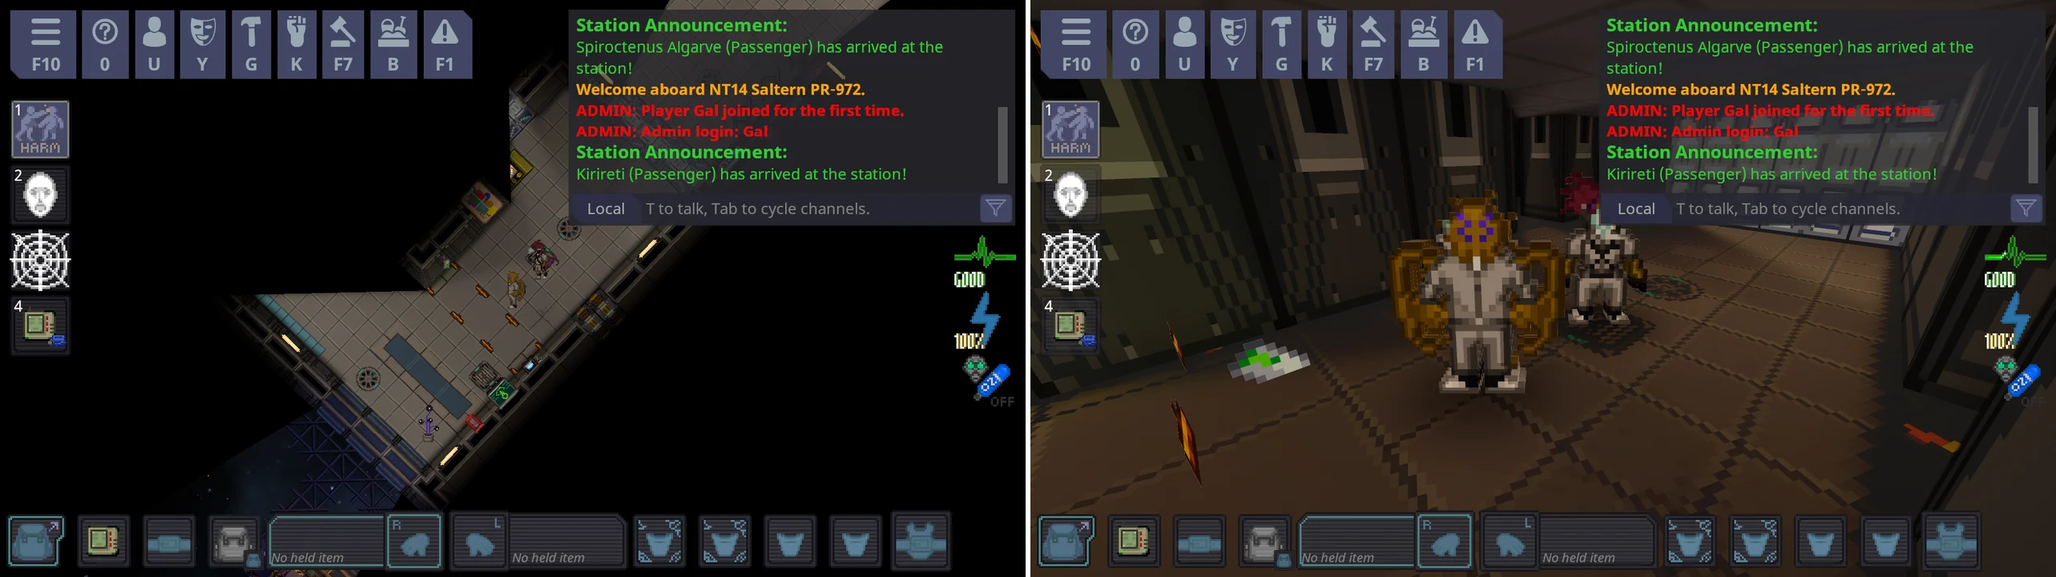
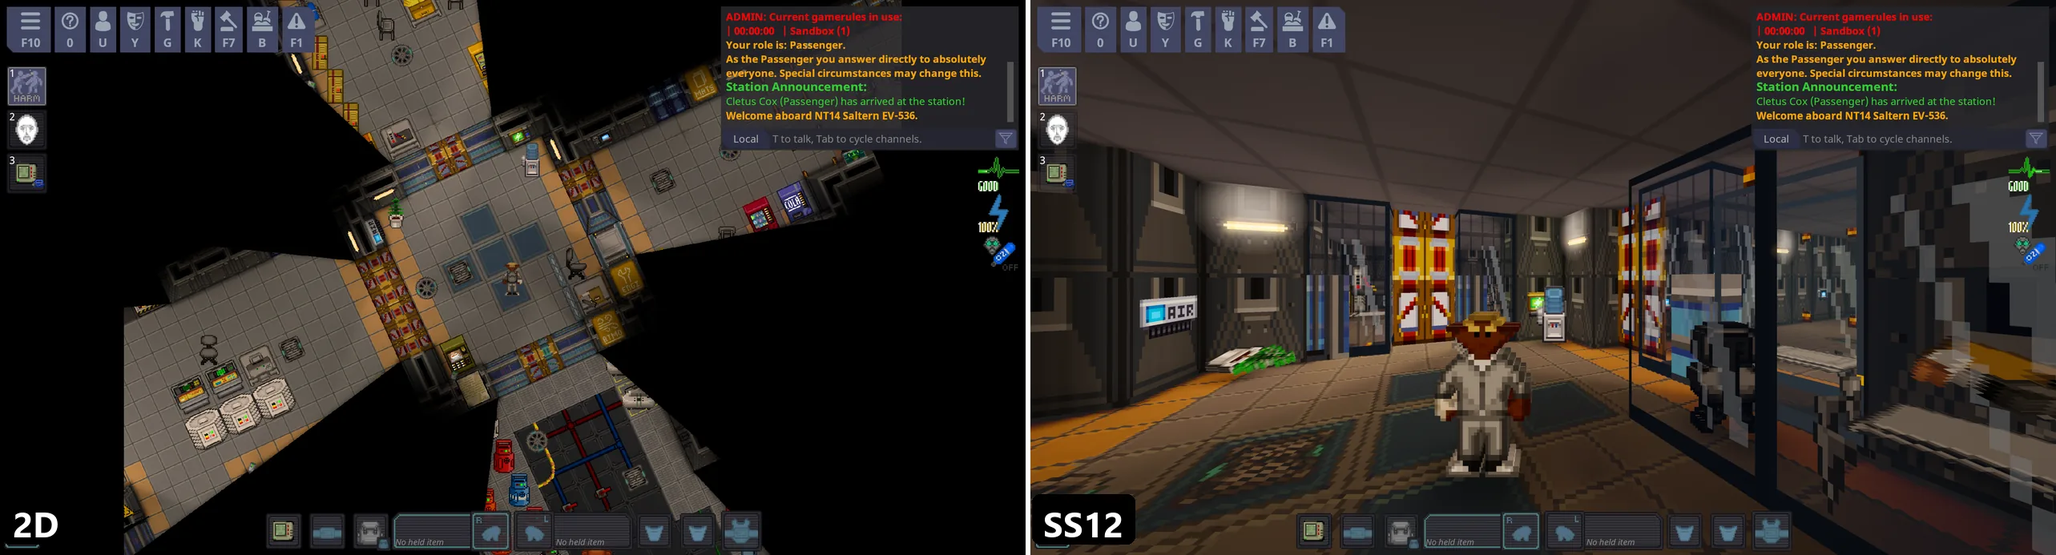
Release 1.3.0: version, changelog, new screenshots, README and docs refresh
Version
  installer/version.txt is 1.3.0 and both changelogs name the section 1.3.0 instead of Unreleased.

README (English and Russian)
  - A new before and after picture at the top: the flat game and SS12 in the same room (Engineering), both on the highest
    graphics in a 2400 x 1300 window.
  - New screenshots, all on High and all in well-lit rooms: Botany, glass walls in Chemistry, first person, Engineering and the
    large minimap, plus a Low and High pair at the same spot.
  - The feature list mentions real glass, the minimap and the high-start graphics. The controls tables list the minimap keys.
  - The 200 to 300 fps figure is marked as measured on an earlier version.

Other docs
  - FAQ: why the game lowered the graphics by itself, how to turn the minimap off or make it bigger.
  - Troubleshooting: rounds start on High, a preset the player chose is never changed, where to untick the automatic step-down.
  - Play the demo: the minimap keys.
  - AGENTS.md: windows and grilles are drawn as glass, not from their sprite (what to know before changing it), and the default
    wall height is 2.3 tiles.

Line endings of overlay/docs/ss12/README.md and README.ru.md are kept as CRLF like the originals.

diff --git a/docs/ru/README.md b/docs/ru/README.md
@@ -13,8 +13,8 @@
 > движке Space Station 14. Технически это игра SS14, увиденная в 3D: правила, роли и баланс такие, какие уже есть
 > на вашем сервере.
 
-![Один и тот же коридор станции: до и после](../screenshots/before_after.webp)
-*Слева: обычный 2D-вид сверху. Справа: SS12, тот же момент в том же коридоре. Та же игра, та же станция.*
+![Одна и та же комната: до и после](../screenshots/before_after.webp)
+*Слева: обычный 2D-вид сверху. Справа: SS12, тот же момент в той же комнате. Та же игра, та же станция.*
 
 **SS12 превращает Space Station 14 в 3D-игру с видом от первого или третьего лица.** Вы ходите по станции
 и осматриваетесь мышью, а всё остальное работает так, как вы уже привыкли: те же профессии, те же правила,
@@ -48,11 +48,17 @@
   разговаривайте. Целиться нужно крестиком в центре экрана.
 - **Выглядит красиво, и красоту можно убавить.** Мягкое освещение, светящиеся лампы, тени под людьми и
   предметами, звёздное небо за бортом. Каждый эффект можно отключить по отдельности, например для старых компьютеров. Нажмите `F11`.
+- **Окна — настоящее стекло.** За окном видно комнату, коридор или космос: через тонированное стекло
+  со стальной рамой и бликом, а также через решётки. У каждого вида окон (обычное, укреплённое, плазменное, шаттловое...)
+  свой вид.
 - **У вещей есть объём.** Предметы на полу приподняты, наклонены к вам и нарисованы с толщиной, поэтому ломик не
   похож на наклейку или пятно; людям и автоматам тоже добавлена тонкая плитка глубины. Каждый из этих эффектов можно
   отключить отдельно.
-- **Оно бережёт слабые компьютеры.** Если игра начинает тормозить, она сама снижает красивые настройки и
-  сообщает вам об этом.
+- **Миникарта, чтобы не заблудиться.** Небольшая карта станции в углу, со стрелкой, куда вы смотрите. Других игроков на
+  ней нет. `M` включает и выключает её, `-` делает её больше.
+- **Игра стартует на лучшей графике и бережёт слабые компьютеры.** Каждый раунд начинается на самой высокой графике и измеряет
+  частоту кадров. Если игра тормозит, она сама снижает красивые настройки и сообщает вам об этом. Ваш собственный выбор в `F11`
+  она никогда не меняет.
 
 ## Чем оно не является
 
@@ -64,14 +70,23 @@
 
 ## Скриншоты
 
+Все они сделаны на **самой высокой** графике, в окне игры примерно 2400 x 1300 пикселей.
+
 | | |
 |---|---|
-| ![Коридор](../screenshots/hero_high.webp) | ![Персонажи с тенями](../screenshots/visual_entity_fx_off_on.webp) |
-| Коридор станции | Тени и контуры у людей: выключено (слева) и включено (справа) |
-| ![Лампы](../screenshots/visual_lamp_halo.webp) | ![Наручники](../screenshots/flash_cuff_pull_3d.webp) |
-| Светящиеся лампы | Работа службы безопасности: вспышка, наручники, буксировка |
-| ![Предметы](../screenshots/visual_items_shape_off_on.webp) | |
-| Предметы на полу: эффекты формы выключены (слева) и включены (справа) | |
+| ![Комната станции](../screenshots/hero_high.webp) | ![Стеклянные стены](../screenshots/glass_windows.webp) |
+| Ботаника: лампы, потолок, предметы и грядки с толщиной | Стеклянные стены в химлаборатории: за ними видны аппараты и комнаты |
+| ![Вид от первого лица](../screenshots/first_person.webp) | ![Инженерный отдел](../screenshots/engineering_3d.webp) |
+| Вид от первого лица (`N`): вы смотрите глазами персонажа | Инженерный отдел: шкафчики, вывески и лампы |
+| ![Большая миникарта](../screenshots/minimap_large.webp) | |
+| Большая миникарта (`-`): вся станция, с названиями зон | |
+
+### Low и High
+
+Пресеты графики в `F11` (**Low**, **Medium**, **High**) включают и выключают эффекты. То же место, тот же момент:
+
+![Одна и та же комната на Low (слева) и High (справа)](../screenshots/low_vs_high.webp)
+*Слева: Low, плоско и просто, для слабых компьютеров. Справа: High, с плиточным потолком, светящимися лампами, тенями и толщиной.*
 
 Больше картинок — в [папке со скриншотами](../screenshots/).
 
@@ -87,6 +102,8 @@
 | Освободить мышь (чтобы щёлкать по меню), удерживайте | `Alt` |
 | Открыть настройки 3D (внешний вид, скорость, клавиши) | `F11` |
 | Переключиться между 3D и старым плоским видом, если сервер разрешает | `F12` |
+| Включить и выключить миникарту | `M` |
+| Миникарта: малая или большая | `-` |
 | Всё остальное (использовать, бросать, говорить, боевой режим...) | те же клавиши, что и в обычной SS14 |
 
 Маленький крестик в центре экрана показывает, куда вы целитесь. Он становится **зелёным**, когда то, на что вы
@@ -122,15 +139,15 @@ lol.ss12.org
 
 Почти наверняка. Нужна видеокарта с поддержкой OpenGL 3.3, а это почти любой компьютер, выпущенный примерно с
 2012 года. На среднем видеоускорителе 2017 года (Radeon RX 580) автор измерил примерно **от 200 до 300 кадров в секунду** в разрешении 1080p со всеми
-эффектами (обычно экраны показывают 60, так что запас большой).
+эффектами (на более ранней версии; обычно экраны показывают 60, так что запас большой).
 
 Если ваш компьютер тормозит:
 1. Нажмите `F11`.
 2. Поставьте **Пресет качества** (Quality preset) на **Low**.
 3. Если всё равно тормозит, немного уменьшите **Масштаб рендера** (Render scale).
 
-Можно и не делать этого: при автоматической настройке (она включена по умолчанию) игра сама снижает качество
-после нескольких секунд медленной работы.
+Можно и не делать этого: каждый раунд начинается на High, а при автоматической настройке (она включена по умолчанию) игра
+сама снижает качество после нескольких секунд медленной работы и сообщает вам об этом.
 
 ---
 

diff --git a/README.md b/README.md
@@ -14,8 +14,8 @@
 > Space Station 14 game and engine. Under the hood it is the SS14 game seen in 3D: the rules, roles and balance are whatever
 > your server already has.
 
-![The same station corridor, before and after](docs/screenshots/before_after.webp)
-*Left: the normal top-down 2D view. Right: SS12, the same moment in the same corridor. Same game, same station.*
+![The same room, before and after](docs/screenshots/before_after.webp)
+*Left: the normal top-down 2D view. Right: SS12, the same moment in the same room. Same game, same station.*
 
 **SS12 turns Space Station 14 into a first-person or third-person 3D game.** You walk around the station
 and look around with the mouse, and everything else works the way you already know: the same jobs, the same rules,
@@ -49,11 +49,17 @@ It is a fan-made add-on. It is **not** made by, or connected to, the Space Stati
   talk. Aim with the cross in the middle of the screen.
 - **It looks good, and you can turn the looks down.** Soft lighting, glowing lamps, shadows under people and
   things, a starry sky outside. Every extra can be switched off one by one, for older computers. Press `F11`.
+- **Windows are real glass.** You see the room, the corridor or the space behind a window, through a tinted pane
+  with a steel frame and a highlight, and through grilles. Each kind of window (plain, reinforced, plasma, shuttle...) has
+  its own look.
 - **Things have a body.** Items on the floor are lifted, tilted towards you and drawn with thickness, so a crowbar
   does not look like a sticker or a stain; people and machines get a thin slab of depth too. Each of these can be
   switched off on its own.
-- **It protects slow computers.** If the game starts running badly, it lowers the fancy settings by itself and
-  tells you.
+- **A minimap to find your way.** A small map of the station in the corner, with an arrow for where you look. It shows no
+  other players. `M` switches it on and off, `-` makes it larger.
+- **It starts on the best looks and protects slow computers.** Every round starts on the highest graphics and measures the
+  frame rate. If the game runs badly, it lowers the fancy settings by itself and tells you. Your own choices in `F11` are
+  never overridden.
 
 ## What it is not
 
@@ -65,14 +71,23 @@ It is a fan-made add-on. It is **not** made by, or connected to, the Space Stati
 
 ## Screenshots
 
+All of these were taken on the **highest** graphics setting, in a game window of about 2400 x 1300 pixels.
+
 | | |
 |---|---|
-| ![A corridor](docs/screenshots/hero_high.webp) | ![Characters with shadows](docs/screenshots/visual_entity_fx_off_on.webp) |
-| A station corridor | Shadows and outlines on people, off (left) and on (right) |
-| ![Lamps](docs/screenshots/visual_lamp_halo.webp) | ![Cuffing](docs/screenshots/flash_cuff_pull_3d.webp) |
-| Lamps that glow | Security work: flash, cuff, pull |
-| ![Items](docs/screenshots/visual_items_shape_off_on.webp) | |
-| Items on the floor with the shape effects off (left) and on (right) | |
+| ![A station room](docs/screenshots/hero_high.webp) | ![Glass walls](docs/screenshots/glass_windows.webp) |
+| Botany: lamps, a ceiling, items and beds with thickness | Glass walls in Chemistry: the machines and rooms behind them are visible |
+| ![First person](docs/screenshots/first_person.webp) | ![Engineering](docs/screenshots/engineering_3d.webp) |
+| First person (`N`): you look through the character's eyes | Engineering: lockers, signs and lamps |
+| ![Large minimap](docs/screenshots/minimap_large.webp) | |
+| The large minimap (`-`): the whole station, with the names of the areas | |
+
+### Low and High
+
+The graphics presets in `F11` (**Low**, **Medium**, **High**) switch the extras on and off. Same place, same moment:
+
+![The same room on Low (left) and High (right)](docs/screenshots/low_vs_high.webp)
+*Left: Low, flat and plain, for slow computers. Right: High, with the tiled ceiling, glowing lamps, shadows and thickness.*
 
 More pictures are in the [screenshots folder](docs/screenshots/).
 
@@ -88,6 +103,8 @@ More pictures are in the [screenshots folder](docs/screenshots/).
 | Free the mouse (to click menus), hold | `Alt` |
 | Open the 3D settings (looks, speed, keys) | `F11` |
 | Switch between 3D and the old flat view, if the server allows it | `F12` |
+| Minimap on and off | `M` |
+| Minimap small or large | `-` |
 | Everything else (use, throw, talk, combat mode...) | the same keys as in normal SS14 |
 
 The little cross in the middle of the screen is where you point. It turns **green** when what you are pointing at is
@@ -123,15 +140,15 @@ with the `F12` key.
 
 Almost certainly. It needs a graphics card that can run OpenGL 3.3, which is nearly every computer made since
 about 2012. On a 2017 mid-range card (Radeon RX 580) the author measured roughly **200 to 300 frames per second** at 1080p with every extra
-on (screens normally show 60, so that leaves a lot of room).
+on (an earlier version; screens normally show 60, so that leaves a lot of room).
 
 If your computer is slow:
 1. Press `F11`.
 2. Set **Quality preset** to **Low**.
 3. If it is still slow, move **Render scale** down a little.
 
-You do not even have to do that: with the automatic setting (on by default) the game lowers the quality itself
-after a few seconds of slow running.
+You do not even have to do that: every round starts on High, and with the automatic setting (on by default) the game
+lowers the quality itself after a few seconds of slow running, and tells you when it does.
 
 ---
 

diff --git a/docs/ru/FAQ.md b/docs/ru/FAQ.md
@@ -29,6 +29,15 @@
 Почти наверняка. Нужна видеокарта с OpenGL 3.3 (это почти всё, что выпущено с 2012 года). На старых компьютерах можно
 по одному отключить красивые эффекты (`F11`), а игра сделает это сама, если заметит, что тормозит.
 
+### Почему игра сама снизила мне графику?
+Каждый раунд начинается на самой высокой графике, и несколько секунд игра измеряет частоту кадров. Если она слишком низкая,
+игра переходит на более лёгкий пресет и сообщает вам об этом. Следующий раунд снова начнётся на High и снова измерит. Пресет
+или эффект, который вы выбрали сами в `F11`, игра никогда не меняет, а автоматическое снижение там же можно отключить.
+
+### Можно ли выключить миникарту или сделать её больше?
+Да: `M` включает и выключает её, `-` делает её малой или большой. В `F11` для неё тоже есть переключатель и ползунок размера.
+Других игроков она никогда не показывает.
+
 ### Есть ли сервер, где можно просто попробовать?
 Да: тестовый сервер `lol.ss12.org`. Откройте обычный лаунчер, выберите Direct Connect и введите адрес. Подробнее на
 [ss12.org](https://ss12.org). Это тестовый сервер, поэтому он может перезапускаться или иногда быть недоступен.

diff --git a/AGENTS.md b/AGENTS.md
@@ -66,8 +66,13 @@ Things to know before touching `overlay/`:
   plane are biased by the sprite's draw depth (`SortBiasPerDepth` in `EntityPass`). `QuadBuilderOrderTest` covers this.
 - A window tile is a see-through glass box. Only the faces turned towards the camera are drawn; the far faces would be
   seen through the near ones and double every window and grille pattern. Do not "complete" the box.
+- Windows, window doors and grilles are not drawn from their sprite (a top-down picture of a frame around a small pane, about
+  62% solid frame when stood up). `GlassLook` lays out a pane, a frame, a grille mesh and highlight streaks for each glass
+  type in `rules.yml` (`glass:`), and `BillboardAtlas.DrawGlass` draws that into the atlas slot with the `Render3DGlassPane`
+  shader (straight alpha, no blending). Damage and other overlay layers are still drawn from the sprite. Rules match a prototype
+  or any of its parents; one under no listed parent keeps its drawn sprite.
 - A sprite's bounds are its whole rectangle, not its opaque pixels. A 1x1 sprite can hold a small drawing.
-- Indoors the camera cannot rise above the ceiling (wall height 1.6 tiles), so things close to it look huge. Test
+- Indoors the camera cannot rise above the ceiling (wall height 2.3 tiles by default), so things close to it look huge. Test
   visual changes with the default third-person distance, not a far-away camera.
 - Items are tilted at most 20 degrees. A first version used 60 and cards rose like ramps into the view.
 

diff --git a/docs/ru/TROUBLESHOOTING.md b/docs/ru/TROUBLESHOOTING.md
@@ -14,8 +14,9 @@
 2. Поставьте **Quality preset** (пресет качества) на **Low** (низкое).
 3. Всё ещё медленно? Немного уменьшите **Render scale** (масштаб рендера), например до 0.75.
 
-Игра также делает это сама, если несколько секунд работает медленно, и показывает сообщение об этом. Если вам это не
-нужно, отключить можно в том же окне.
+Игра также делает это сама: каждый раунд начинается на High, а если несколько секунд работает медленно, она снижает
+качество и показывает сообщение. Пресет, который вы выбрали сами, игра никогда не меняет. Если автоматическое снижение вам
+не нужно, снимите галочку **Lower quality automatically if slow** в том же окне.
 
 ### Мышь не поворачивает камеру
 - Один раз щёлкните внутри окна игры, чтобы оно поняло, что вы с ним работаете.

diff --git a/docs/FAQ.md b/docs/FAQ.md
@@ -26,6 +26,15 @@ Yes, on servers that allow it: press `F12`. Servers can make 3D mandatory for li
 Nearly certainly. It needs a graphics card with OpenGL 3.3 (almost everything since about 2012). Older computers can turn
 off the fancy parts one by one (`F11`), and the game does it for you if it notices it is slow.
 
+### Why did the game lower my graphics by itself?
+Every round starts on the highest graphics and measures the frame rate for a few seconds. If it is too low, the game
+steps down to a lighter preset and tells you. The next round starts on High again and measures again. A preset or effect
+you chose yourself in `F11` is never changed by the game, and the automatic step-down can be switched off there.
+
+### Can I turn the minimap off, or make it bigger?
+Yes: `M` switches it on and off and `-` makes it small or large. `F11` has a switch and a size slider for it too. It never
+shows other players.
+
 ### Is there a server I can just try?
 Yes: a test server at `lol.ss12.org`. Open the normal launcher, choose Direct Connect and type the address. More on
 [ss12.org](https://ss12.org). It is a test server, so it may restart or be down at times.

diff --git a/docs/ru/CHANGELOG.md b/docs/ru/CHANGELOG.md
@@ -1,7 +1,8 @@
 # Список изменений
 *[English version](../CHANGELOG.md)*
 
-## Не выпущено
+## 1.3.0
+Прозрачные окна, миникарта, графика, которая стартует на высоком уровне и сама снижается, и много исправлений в отрисовке.
 - **Объекты рядом с камерой больше не оставляют размазанную полосу на экране.** Шейдер плавно скрывает то, что очень близко к камере,
   по глубине каждого пикселя. Слои толщины объекта лежат позади его лицевой стороны, то есть дальше от камеры, и гаснут слабее:
   когда вы стояли рядом с торговым автоматом или утилизатором, его лицевая сторона становилась прозрачной, а слои показывались

diff --git a/docs/TROUBLESHOOTING.md b/docs/TROUBLESHOOTING.md
@@ -14,8 +14,9 @@ Find your problem below. Every answer is in plain words. If yours is not here, s
 2. Set **Quality preset** to **Low**.
 3. Still slow? Move **Render scale** down a bit (for example to 0.75).
 
-The game also does this by itself after a few seconds of slow running, and shows a message when it does. You can turn
-that off in the same window if you do not want it.
+The game also does this by itself: every round starts on High, and after a few seconds of slow running it lowers the
+quality and shows a message. A preset you choose yourself is never changed by the game. If you do not want the automatic
+step-down, untick **Lower quality automatically if slow** in the same window.
 
 ### The mouse will not turn the camera
 - Click once inside the game window so it knows you are using it.

diff --git a/docs/ru/PLAY-THE-DEMO.md b/docs/ru/PLAY-THE-DEMO.md
@@ -59,6 +59,7 @@
 | `N` | переключение между видом от первого и от третьего лица |
 | `F12` | выключает и включает 3D-вид (обычный плоский вид никуда не делся) |
 | `F11` | настройки графики: выключите эффекты, если игра тормозит |
+| `M` | включить и выключить миникарту (`-` делает её малой или большой) |
 | удерживайте `Alt` | на время освободить мышь (меню освобождают её сами) |
 | `Esc` | меню игры |
 

diff --git a/docs/CHANGELOG.md b/docs/CHANGELOG.md
@@ -2,7 +2,8 @@
 
 *[Русская версия](ru/CHANGELOG.md)*
 
-## Unreleased
+## 1.3.0
+See-through windows, a minimap, graphics that start high and step down by themselves, and many fixes to how things are drawn.
 - **Objects next to the camera no longer leave a smeared band across the view.** The shader fades out things very close to the
   camera, by the depth of each pixel. The thickness layers of an object lie behind its front face, so they are further from the
   camera and faded less: when you stood next to a vending machine or a disposal unit its face went see-through and its layers

diff --git a/docs/PLAY-THE-DEMO.md b/docs/PLAY-THE-DEMO.md
@@ -57,6 +57,7 @@ and attach `data/server.log` from the demo folder.
 | `N` | switch between first person and third person |
 | `F12` | switch the 3D view off and on (the normal flat view is still there) |
 | `F11` | graphics settings: turn effects off if it feels slow |
+| `M` | minimap on and off (`-` makes it small or large) |
 | hold `Alt` | free the mouse for a moment (menus free it by themselves) |
 | `Esc` | the game menu |
 
